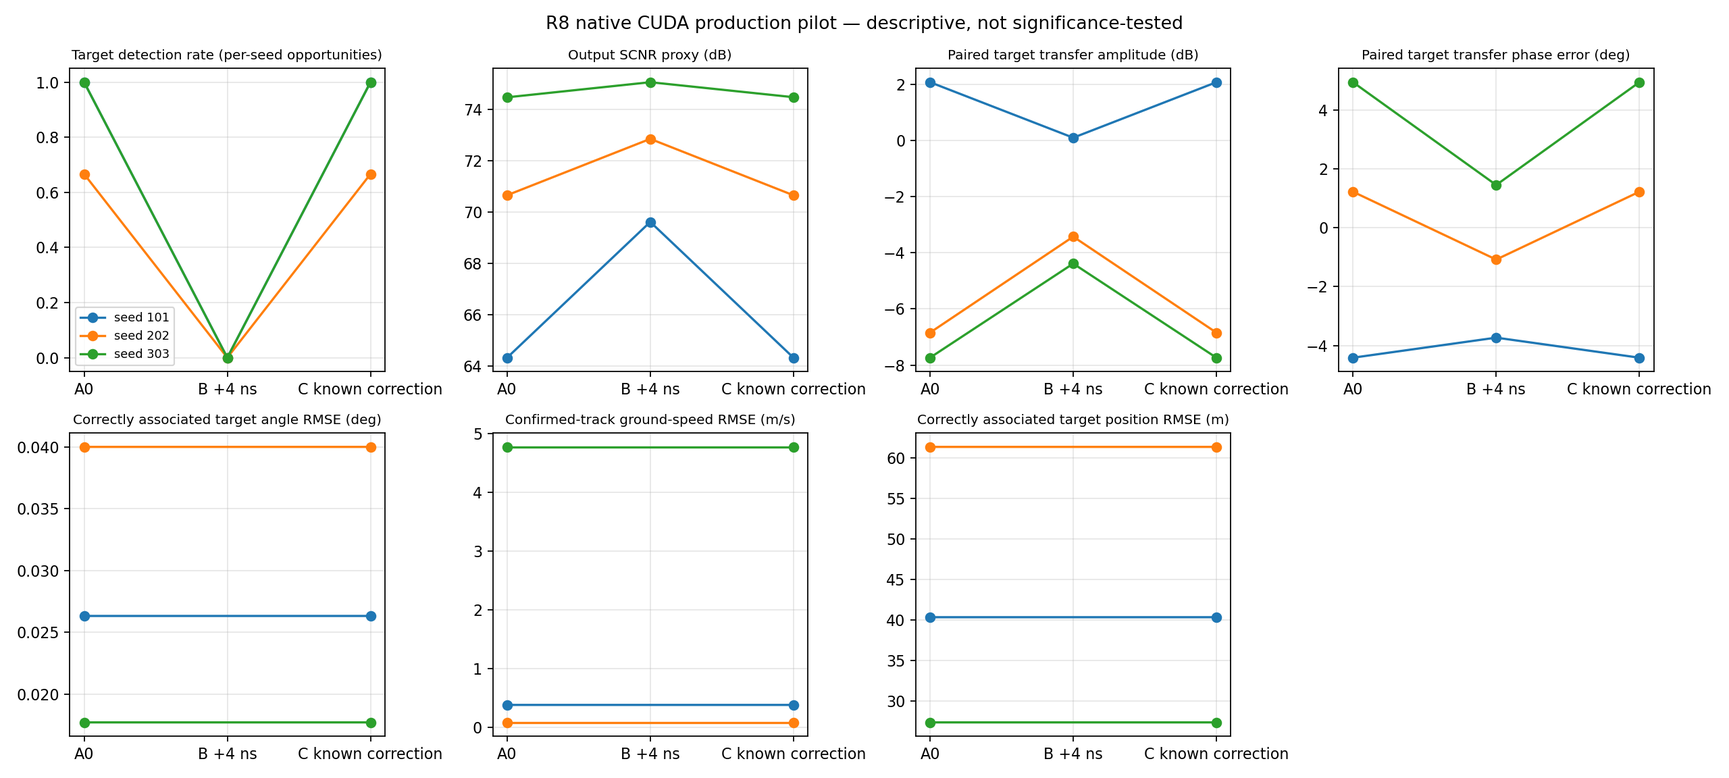
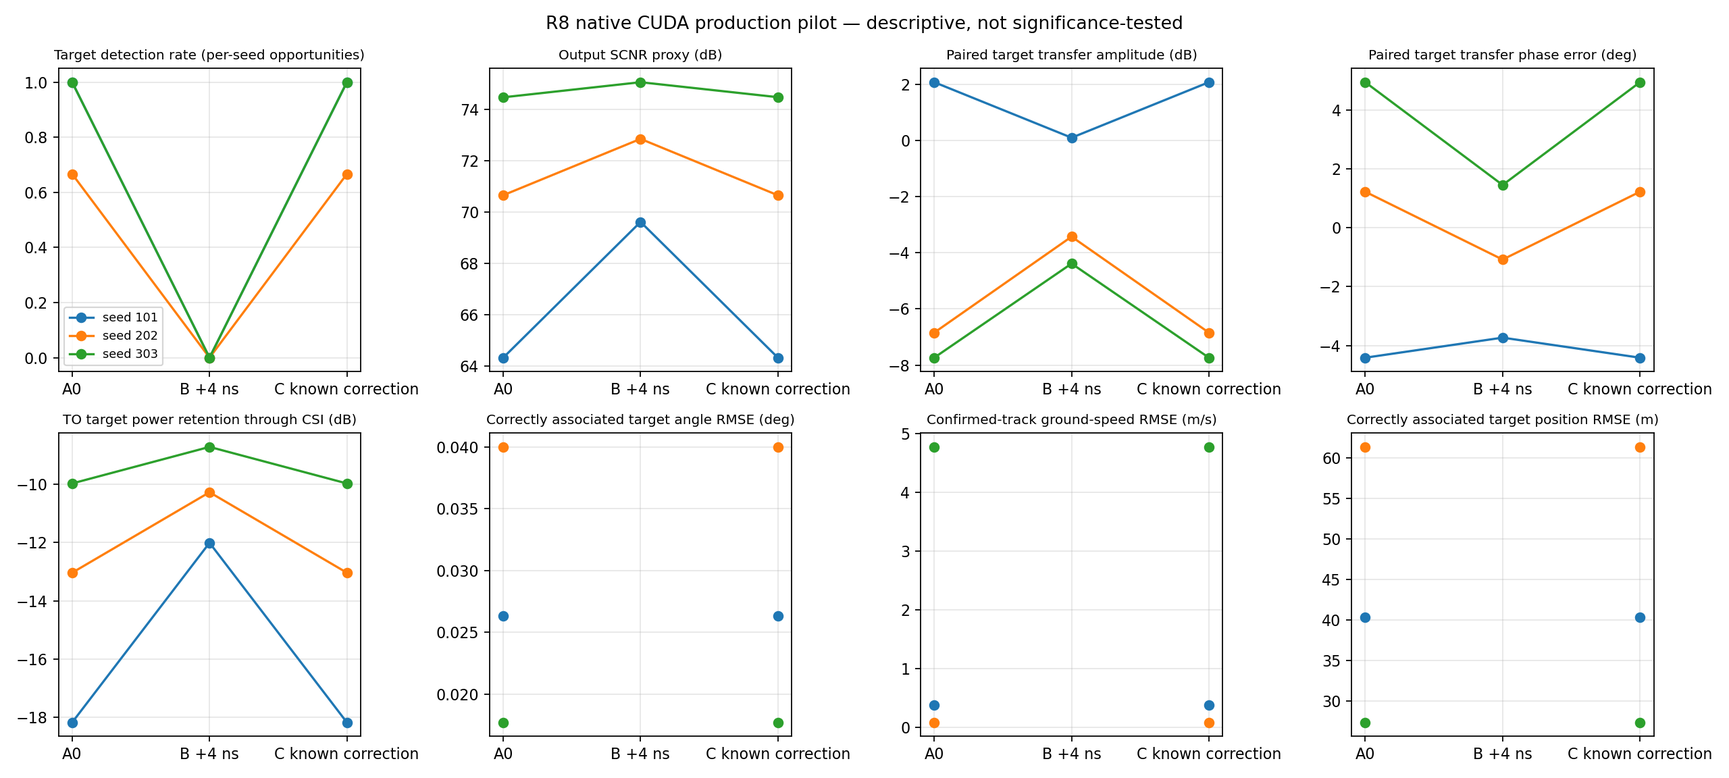
docs(research): tighten R8 evaluation evidence

diff --git a/scripts/phase_r/evaluate_r8_multiseed_causal_pilot.py b/scripts/phase_r/evaluate_r8_multiseed_causal_pilot.py
@@ -945,11 +945,20 @@ def _metrics_row(seed: int, label: str, csi: Mapping[str, Any], roles: Mapping[s
         "seed": seed, "condition": label,
         "csi_h0_cancellation_db": csi.get("csi_h0_active_support", {}).get("cancellation_db"),
         "output_scnr_proxy_db": transfer.get("output_scnr_proxy_db"),
+        "target_only_csi_retention_db": transfer.get("target_only_csi_retention_db"),
         "target_amplitude_ratio_db": coef.get("amplitude_ratio_db"),
         "target_phase_error_deg": coef.get("phase_error_deg"),
         "target_detections": on.get("unique_correct_detections"),
         "target_opportunities": on.get("truth_opportunities"),
         "target_detection_rate": on.get("detection_rate"),
+        "target_misses": on.get("misses"),
+        "on_final_detections": on.get("final_detections"),
+        "on_non_target_detections": on.get("false_associations"),
+        "correct_track_associations": on.get("correct_track_associations"),
+        "unassociated_confirmed_tracks": on.get("false_track_associations"),
+        "on_confirmed_tracks": on.get("confirmed_tracks"),
+        "cfar_branch_hit_cells_on": on.get("cfar_branch_hit_cells"),
+        "cfar_branch_hit_cells_off": off.get("cfar_branch_hit_cells"),
         "false_h0_clusters": off.get("false_clusters"),
         "false_h0_detections": off.get("false_detections"),
         "false_h0_confirmed_tracks": off.get("false_confirmed_tracks"),
@@ -981,6 +990,7 @@ def _write_comparison_figure(path: Path, rows: Sequence[Mapping[str, Any]]) -> N
         ("output_scnr_proxy_db", "Output SCNR proxy (dB)"),
         ("target_amplitude_ratio_db", "Paired target transfer amplitude (dB)"),
         ("target_phase_error_deg", "Paired target transfer phase error (deg)"),
+        ("target_only_csi_retention_db", "TO target power retention through CSI (dB)"),
         ("angle_rmse_deg", "Correctly associated target angle RMSE (deg)"),
         ("ground_speed_rmse_mps", "Confirmed-track ground-speed RMSE (m/s)"),
         ("position_rmse_m", "Correctly associated target position RMSE (m)"),
@@ -993,16 +1003,15 @@ def _write_comparison_figure(path: Path, rows: Sequence[Mapping[str, Any]]) -> N
                 for row in rows if int(row["seed"]) == seed
             }
             values = [by_condition.get(label) for label in ("A", "B", "C")]
-            xs, ys = [], []
-            for x, value in enumerate(values):
-                if value is not None and math.isfinite(float(value)):
-                    xs.append(x)
-                    ys.append(float(value))
+            xs = list(range(3))
+            ys = [
+                float(value) if value is not None and math.isfinite(float(value)) else math.nan
+                for value in values
+            ]
             axis.plot(xs, ys, marker="o", label=f"seed {seed}")
         axis.set_xticks([0, 1, 2], ["A0", "B +4 ns", "C known correction"])
         axis.set_title(title, fontsize=9)
         axis.grid(True, alpha=0.3)
-    axes.flat[7].set_visible(False)
     axes[0, 0].legend(fontsize=8)
     fig.suptitle("R8 native CUDA production pilot — descriptive, not significance-tested")
     fig.tight_layout()
@@ -1099,11 +1108,14 @@ def run_evaluation(
                     row["h0_union_valid_cut_count_total"] = sum(int(item["valid_cut_count"]) for item in union)
                 on_audit = _audit_manifests(next(path.resolve() for path in seed_roots if int(read_json(_seed_case_root(path.resolve()) / "case_manifest.json")["scene_identity"]["seed"]) == seed)).get((CONDITIONS[label], "ON"))
                 if on_audit:
-                    row["h1_unique_union_hit_cells_total"] = sum(int(item["unique_union_hit_cells"]) for item in _audit_union_rows(*on_audit))
+                    on_union = _audit_union_rows(*on_audit)
+                    row["h1_unique_union_hit_cells_total"] = sum(int(item["unique_union_hit_cells"]) for item in on_union)
+                    row["h1_union_valid_cut_count_total"] = sum(int(item["valid_cut_count"]) for item in on_union)
             else:
                 row["h0_unique_union_hit_cells_total"] = None
                 row["h0_union_valid_cut_count_total"] = None
                 row["h1_unique_union_hit_cells_total"] = None
+                row["h1_union_valid_cut_count_total"] = None
             metric_rows.append(row)
     write_csv(output_dir / "r8_seed_condition_metrics.csv", metric_rows)
     _write_comparison_figure(output_dir / "r8_seed_condition_comparison.png", metric_rows)
@@ -1159,6 +1171,9 @@ def run_evaluation(
             "PERFORMANCE_VERIFIED_reason": "three seeds are descriptive only; task changes are not declared statistically significant",
         },
     }
+    experiment_manifest_path = output_dir / "r8_experiment_manifest.json"
+    campaign["experiment_manifest"] = str(experiment_manifest_path.resolve())
+    write_json(output_dir / "r8_multiseed_causal_evaluation.json", campaign)
     experiment_manifest = _build_experiment_manifest(
         seed_roots=seed_roots,
         seed101_case_root=seed101_case_root,
@@ -1166,10 +1181,7 @@ def run_evaluation(
         output_dir=output_dir,
         campaign=campaign,
     )
-    experiment_manifest_path = output_dir / "r8_experiment_manifest.json"
     write_json(experiment_manifest_path, experiment_manifest)
-    campaign["experiment_manifest"] = str(experiment_manifest_path.resolve())
-    write_json(output_dir / "r8_multiseed_causal_evaluation.json", campaign)
     _normalize_csv_line_endings(output_dir)
     return campaign
 

diff --git a/tests/test_phase_r8_multiseed_evaluation.py b/tests/test_phase_r8_multiseed_evaluation.py
@@ -1,5 +1,7 @@
 import unittest
+import math
 from pathlib import Path
+from unittest.mock import patch
 
 import numpy as np
 
@@ -10,6 +12,7 @@ from scripts.phase_r.evaluate_r8_multiseed_causal_pilot import (
     _truth_path,
     _metrics_row,
     _normalize_csv_line_endings,
+    _write_comparison_figure,
     normalized_runtime_xml,
 )
 
@@ -27,6 +30,7 @@ class TargetNeighborhoodTests(unittest.TestCase):
 
     def test_metrics_row_records_f1_f2_input_power_for_each_role(self):
         csi = {
+            "target_transfer": {"target_only_csi_retention_db": -5.25},
             "input_fusion_power": {
                 "ON": {"F1_mean_power": 10.0, "F2_mean_power": 11.0},
                 "OFF": {"F1_mean_power": 7.0, "F2_mean_power": 8.0},
@@ -34,13 +38,60 @@ class TargetNeighborhoodTests(unittest.TestCase):
             }
         }
         roles = {
-            "ON": {"metrics": {"parameter_errors": {}}},
-            "OFF": {"metrics": {}},
+            "ON": {"metrics": {
+                "parameter_errors": {},
+                "misses": 2,
+                "false_associations": 4,
+                "correct_track_associations": 1,
+                "false_track_associations": 3,
+                "cfar_branch_hit_cells": 100,
+                "final_detections": 7,
+                "confirmed_tracks": 4,
+            }},
+            "OFF": {"metrics": {"cfar_branch_hit_cells": 50}},
         }
         result = _metrics_row(202, "A", csi, roles)
         self.assertEqual(result["input_f1_mean_power_on"], 10.0)
         self.assertEqual(result["input_f2_mean_power_off"], 8.0)
         self.assertEqual(result["input_f1_mean_power_to"], 2.0)
+        self.assertEqual(result["target_only_csi_retention_db"], -5.25)
+        self.assertEqual(result["target_misses"], 2)
+        self.assertEqual(result["on_non_target_detections"], 4)
+        self.assertEqual(result["correct_track_associations"], 1)
+        self.assertEqual(result["unassociated_confirmed_tracks"], 3)
+        self.assertEqual(result["cfar_branch_hit_cells_on"], 100)
+        self.assertEqual(result["cfar_branch_hit_cells_off"], 50)
+        self.assertEqual(result["on_final_detections"], 7)
+        self.assertEqual(result["on_confirmed_tracks"], 4)
+
+    def test_comparison_figure_keeps_unavailable_condition_as_gap(self):
+        import matplotlib.pyplot  # noqa: F401
+        import tempfile
+        from matplotlib.axes import Axes
+
+        rows = [
+            {"seed": 202, "condition": "A", "angle_rmse_deg": 1.0},
+            {"seed": 202, "condition": "B", "angle_rmse_deg": None},
+            {"seed": 202, "condition": "C", "angle_rmse_deg": 3.0},
+        ]
+        original_plot = Axes.plot
+        plot_calls = []
+
+        def capture_plot(axis, *args, **kwargs):
+            plot_calls.append((args, kwargs))
+            return original_plot(axis, *args, **kwargs)
+
+        with tempfile.TemporaryDirectory() as temp_dir:
+            with patch("matplotlib.axes.Axes.plot", new=capture_plot):
+                _write_comparison_figure(Path(temp_dir) / "unused.png", rows)
+        angle_series = [
+            args[1]
+            for args, _kwargs in plot_calls
+            if len(args) > 1 and len(args[1]) == 3
+            and args[1][0] == 1.0 and args[1][2] == 3.0
+        ]
+        self.assertTrue(angle_series)
+        self.assertTrue(math.isnan(angle_series[0][1]))
 
     def test_runtime_xml_comparison_ignores_only_run_output_paths(self):
         base = "<root><result_add>/run/A/result</result_add><threshold>13.4</threshold><track_debug_dir>/run/A/track</track_debug_dir></root>"

diff --git a/docs/research/phase_r/R8_research_direction_decision.md b/docs/research/phase_r/R8_research_direction_decision.md
@@ -1,36 +1,52 @@
 # R8 阶段研究方向裁决
 
 日期：2026-10-23
-裁决级别：三 seed 描述性 CUDA 因果可行性证据；不是总体性能或统计显著性结论。
 
-## 对研究问题的回答
+裁决依据：seed101/202/303 的 A0/B/C 配对任务结果、seed202/303 本机 CUDA Production 与 CFAR 审计、Known Correction 物理闭合。三个 seed 支持受控场景内的重复性判断；不构成总体统计显著性结论。
 
-### 1. 未知通道时延是否降低 GMTI 任务表现？
+## Q1–Q7 裁决
 
-在本次固定仿真场景、通道 2 注入 `+4 ns`、真实连续面积地杂波存在的条件下，结果支持“是”：A0/B/C 三 seed 门内正确目标 detection 分别为 `8/9、0/9、8/9`。B 三 seed 均为 `0/3`，而 A0 与 C 各 seed 为 `3/3、2/3、3/3`。这说明所测误差可导致该 Production 任务链无法把目标关联进冻结门；不应外推成任意机载时延都造成同等下降。
+### Q1：修复 GO-CFAR 后，+4 ns 失配是否在不同 seed 上持续造成正确目标检出损失？
 
-### 2. 已知物理校正恢复多少？
+**是，在本次固定仿真配置和冻结关联门内三个 seed 都观察到损失。** A0/B/C 正确 detection 机会分别为 `8/9、0/9、8/9`；每个 seed 的 B 都是 `0/3`，A0/C 分别为 `3/3、2/3、3/3`。seed202 的 A0 自身有一个漏检，说明场景/目标候选也会影响绝对检出率。此结论只适用于本次通道2 `+4 ns` 条件，不外推为任意 airborne 时延分布的普遍效果。
 
-Known Correction 将观察到的 A0−B 检出计数差 `8` 全部恢复，C 达到 A0 的 `8/9` 总计数。confirmed current track matched 计数也由 B 的 `0/9` 回到 A0/C 各 `7/9`。三个 seed、ON/OFF/TO 的 A0/C 融合输入复 RMS 最大约 `9.56e-5`，优于冻结 `1e-3` 闭合限。该恢复量只对当前注入、场景、目标及冻结生产门成立。
+### Q2：已知物理逆校正是否持续恢复检测与参数估计？
 
-### 3. 传统盲估计离已知校正还有多远？
+**检测计数恢复到 A0 水平。** C 比 B 多 8 个正确 detection，补回本次全部 `8` 个 A0−B 计数差；A0 与 C 各为 `8/9`。正确 confirmed-track 关联也由 B 的 `0/9` 回到 A0/C 各 `5/9`（seed101/202/303 为 `2/3、1/3、2/3`）。正确关联目标上的角度、位置和地速误差在 A0/C 闭合；B 没有正确 detection，参数 RMSE 为 `NOT_EVALUABLE`。三 seed 的 F1/F2 最大相对复 RMS 约 `9.56e-5`，低于冻结 `1e-3` 闭合门。
 
-本阶段没有合格盲估计器，D 条件为 `NOT_AVAILABLE`；未运行，也没有盲估计误差、恢复率或与 Known Correction 的差距数据。不能把 Known Correction 的结果冒充盲估计能力。
+### Q3：主要可观测损失发生在哪一层？
 
-### 4. 是否继续未知物理状态估计？是否需要 AI？
+证据显示损失不是“目标在 CSI/CFAR 前完全消失”：B 在 seed202/303 的目标 5×5 邻域仍分别有 `41/44` 个 CFAR hit，但三个 period 的最近候选 Doppler 偏差均在冻结 ±2-bin 门外。目标关联失败出现在候选形成/选择至 detection 的阶段；TrackManager 因没有门内目标 detection 而没有正确目标航迹关联。CSI 层也有变化：B 的 H0 cancellation 比 A0 低约 `0.44–0.49 dB`，输入融合 F2 功率降低约 `0.22–0.25 dB`。因此 CSI/CFAR 输入变化与门外候选同时存在；当前证据不能将唯一根因拆分到某个内部算子。
 
-建议继续验证**确定性的未知时延/通道状态估计**：B 的任务损失在三个 seed 重复出现，C 在相同输入误差下闭合并恢复观察到的检出缺口。这证明“估计并校正未知状态”值得下一步检验，但还没证明任何盲方法能做到。
+### Q4：损失是稳定物理后果，还是高度依赖场景与关联？
 
-当前没有 AI 必要性证据：没有盲估计基线与残差、跨场景恢复能力或显式物理估计失败证据。因此不训练 AI、不启用 Router。下一项若获批准，应先实现/审查一个 target-free 的确定性时延估计，再以盲条件 D 对照 A/B/C；估计器不得读取真实时延、目标真值、配对无误差参考或其他 oracle 信息。
+**损失方向在三个独立 seed 上一致，损失大小和候选位置仍依赖场景。** B 的正确 detection 均为 `0/3`，但门外 Doppler 偏移 seed202 为 `[-6,+24,+25]`、seed303 为 `[-6,+23,+29]` bins；A0 自身在 seed202 也有一个 period 未过冻结门。故可称为本实验设置下的重复因果效应，不能称作与场景无关的固定偏移或通用概率结论。
 
-### 5. 是否转向低速目标保护或复杂杂波建模？
+### Q5：是否已确定双通道 GMTI 的最大可恢复性能瓶颈？
 
-现在不足以改变主线。面积杂波门确实有效，但只有一种场景配置；本实验没有速度 sweep、低速目标分层，也没有统计 Pfa 闭合。B 的目标邻域有 CFAR hits，但最近检测 Doppler 偏差落在 ±2-bin 门外，提示后续可检查候选保护与关联敏感性。该信号尚不能证明低速保护或复杂杂波建模是首要瓶颈。
+**没有。** R8 只测一种时延误差、一个目标/速度配置和一种连续面积杂波设置；未比较其他失配、低速 sweep 或统计校准 Pfa。结果证明未知时延是当前受控场景中的可恢复性能贡献因素，不足以认定它是系统最大瓶颈。
 
-## 阶段门结论
+### Q6：是否具备进入传统盲时延估计器 D3 多 seed 验证的条件？
 
-- `IMPLEMENTED=true`，`EXECUTED=true`，`EVALUABLE=true`，`PERFORMANCE_VERIFIED=false`。
-- 有效面积地杂波：每个新 seed 390 packets、1,952,655 samples；输入历史身份 27/27 匹配；ON/OFF/TO 处理链、CFAR 几何/数值、物理闭合门通过。
-- **本阶段在此停止。** 建议下一阶段先定义 blind deterministic delay estimator 的可观测量、允许输入/禁止信息、失败判据及 evaluator，再决定是否实现和执行；不自动启动后续实验或训练。
+**具备进入 D3 方案与代码审查的科学依据，尚无可执行的合格 D3 估计器。** B/C 的重复损失/恢复满足继续研究 target-free 确定性时延估计的前置动机；本阶段 D 条件为 `NOT_AVAILABLE`，未运行，因此 D 与 Known Correction 的差距未知。下一阶段需先定义允许观测、真值隔离、失败判据并审查估计器，再安排盲验证。
 
-详见：[检出结果](R8_detection_causal_results.md)、[差异级分析](R8_mechanism_analysis.md)、[CUDA 执行记录](R8_native_cuda_execution.md)、[机器 manifest](evidence/r8_unknown_delay_multiseed_20261023/evaluation/r8_experiment_manifest.json)。
+### Q7：是否存在充分证据证明 AI 必要？
+
+**`AI_NOT_JUSTIFIED`。** 当前没有盲估计误差、确定性估计残差或跨场景失败证据。Known Correction 是注入真值的 evaluator-only 上限，不能证明 AI 必要，也不能替代盲估计结果。
+
+## 三条候选主线的证据与优先级
+
+| 方向 | 当前证据等级 | 研究价值与局限 | 优先级 |
+|---|---|---|---:|
+| C：未知系统物理失配 | 中等、受控因果重复 | 三个 seed 的 +4 ns 任务损失方向一致，Known Correction 恢复计数且输入闭合；尚缺盲估计器、其他误差参数和真实 airborne 分布。 | **1**：先做 target-free 确定性时延估计的可观测性与代码审查，再设计 D3 多 seed 验证。 |
+| B：复杂杂波与检测统计 | 初步线索 | H0 仍有候选，B 的 H0 unique union hits 增加；没有统计 Pfa 校准、杂波模型 sweep 或检测阈值敏感性因果试验。 | **2**：作为后续竞争瓶颈审查，不据本轮宣称 Pfa 变化。 |
+| A：低速目标保护 | R8 未检验 | 单一 6.7 m/s 配置不是低速 sweep，也没有低速分层目标保护对照。 | **3**：本证据不足以把主线转到低速目标保护。 |
+
+## 阶段结论与停止
+
+- `IMPLEMENTED=true`、`EXECUTED=true`、`EVALUABLE=true`、`PERFORMANCE_VERIFIED=false`。
+- R8 支持继续研究未知物理时延的确定性盲估计；D3 尚未实现/执行，性能差距 `NOT_AVAILABLE`。
+- 当前没有 AI 必要性证据；不训练 AI、不开发 Router、不扩展六参数联合估计。
+- **本阶段到此停止。** 仅建议下一阶段先完成 blind estimator 的观测边界与代码审查；不自动运行 D3 或启动 R9。
+
+详见：[检出与任务级明细](R8_detection_causal_results.md)、[差异级分析](R8_mechanism_analysis.md)、[CUDA 执行记录](R8_native_cuda_execution.md)、[机器 manifest](evidence/r8_unknown_delay_multiseed_20261023/evaluation/r8_experiment_manifest.json)。

diff --git a/docs/research/phase_r/R8_detection_causal_results.md b/docs/research/phase_r/R8_detection_causal_results.md
@@ -15,6 +15,20 @@
 
 对这组仿真目标和固定 `+4 ns` 注入，未知误差条件 B 在三个 seed 均未产生门内正确目标 detection；Known Correction C 将观察到的 8 个 A0−B 检出机会缺口全部恢复到 A0 的计数。此结果是可行性与因果方向证据，不是统计显著的 Pd 改善。
 
+| Seed | 条件 | 正确目标 detection / 机会 | 漏检 | ON 非目标/未匹配 detections | 正确 confirmed-track 关联 | 未关联的 confirmed tracks |
+|---:|---|---:|---:|---:|---:|---:|
+| 101 | A0 | 3/3 | 0 | 172 | 2 | 27 |
+| 101 | B | 0/3 | 3 | 161 | 0 | 42 |
+| 101 | C | 3/3 | 0 | 172 | 2 | 27 |
+| 202 | A0 | 2/3 | 1 | 181 | 1 | 30 |
+| 202 | B | 0/3 | 3 | 189 | 0 | 52 |
+| 202 | C | 2/3 | 1 | 181 | 1 | 30 |
+| 303 | A0 | 3/3 | 0 | 244 | 2 | 71 |
+| 303 | B | 0/3 | 3 | 226 | 0 | 84 |
+| 303 | C | 3/3 | 0 | 244 | 2 | 70 |
+
+“非目标/未匹配 detection”是 Production 最终 detection 中未与可见真值按冻结一对一门匹配的记录数；“未关联 confirmed tracks”是当周期确认且有匹配 detection、但未关联到正确目标 detection 的航迹数。两者都是场景计数，不是 Pfa。OFF/H0 的 false cluster/detection 与 false confirmed track 另见下表。
+
 ![R8 每 seed 指标对比](evidence/r8_unknown_delay_multiseed_20261023/evaluation/r8_seed_condition_comparison.png)
 
 ## CSI 与目标保持指标
@@ -25,16 +39,19 @@
 |  | Output SCNR proxy (dB) | 64.331 | 69.614 | 64.331 |
 |  | 配对目标复传递幅度 (dB) | 2.081 | 0.102 | 2.081 |
 |  | 配对目标复传递相位误差 (deg) | -4.416 | -3.734 | -4.416 |
+|  | TO 目标功率经 CSI 保持 (dB) | -18.176 | -12.010 | -18.176 |
 | 202 | H0 CSI cancellation (dB) | 5.818 | 5.329 | 5.818 |
 |  | Output SCNR proxy (dB) | 70.652 | 72.845 | 70.651 |
 |  | 配对目标复传递幅度 (dB) | -6.845 | -3.424 | -6.846 |
 |  | 配对目标复传递相位误差 (deg) | 1.228 | -1.078 | 1.229 |
+|  | TO 目标功率经 CSI 保持 (dB) | -13.037 | -10.274 | -13.037 |
 | 303 | H0 CSI cancellation (dB) | 5.436 | 4.994 | 5.437 |
 |  | Output SCNR proxy (dB) | 74.462 | 75.050 | 74.467 |
 |  | 配对目标复传递幅度 (dB) | -7.737 | -4.384 | -7.739 |
 |  | 配对目标复传递相位误差 (deg) | 4.954 | 1.458 | 4.955 |
+|  | TO 目标功率经 CSI 保持 (dB) | -9.972 | -8.717 | -9.972 |
 
-SCNR proxy 定义为 truth-centered TO 目标 ROI 功率除以配对 OFF 的同 ROI H0 功率。配对目标复传递量由 CSI(TO) ROI 与 CSI(ON)−CSI(OFF) 得出，属于诊断量，不等价于独立物理目标增益。它们不应单独替代 detection/track 任务结果。
+SCNR proxy 定义为 truth-centered TO 目标 ROI 功率除以配对 OFF 的同 ROI H0 功率。TO 目标功率保持量为 CSI 输出功率相对 CSI 前等化目标功率的 dB 比值。配对目标复传递量由 CSI(TO) ROI 与 CSI(ON)−CSI(OFF) 得出，属于诊断量，不等价于独立物理目标增益。它们不应单独替代 detection/track 任务结果。
 
 ## 参数估计与 H0 描述计数
 
@@ -55,6 +72,17 @@ SCNR proxy 定义为 truth-centered TO 目标 ROI 功率除以配对 OFF 的同 
 这些 H0 计数是本次场景中的描述性候选数，不是统计 Pfa。
 
 新增 seed 的三期 H0 unique union hit cells（每条件 1,581,840 valid CUT）为：seed202 A/B/C=`432/472/432`；seed303=`396/428/396`。seed101 的 R7 exact union maps 未保存，因此该项为 `NOT_EVALUABLE`。H1 union hits 和逐期任务证据见 [条件 CSV](evidence/r8_unknown_delay_multiseed_20261023/evaluation/r8_seed_condition_metrics.csv)、[任务与 lineage 目录](evidence/r8_unknown_delay_multiseed_20261023/evaluation/)。
+
+| Seed | 条件 | ON 两分支 hit cells 合计 | ON unique union hits | OFF 两分支 hit cells 合计 | OFF unique union hits | 每角色 valid CUT（3 periods） |
+|---:|---|---:|---:|---:|---:|---:|
+| 202 | A0 | 2,501 | 1,509 | 705 | 432 | 1,581,840 |
+| 202 | B | 3,790 | 2,461 | 708 | 472 | 1,581,840 |
+| 202 | C | 2,500 | 1,508 | 705 | 432 | 1,581,840 |
+| 303 | A0 | 3,330 | 1,874 | 653 | 396 | 1,581,840 |
+| 303 | B | 5,018 | 3,125 | 660 | 428 | 1,581,840 |
+| 303 | C | 3,331 | 1,874 | 653 | 396 | 1,581,840 |
+
+两分支 hit-cell 合计会重复计入两个 branch 同时命中的 CUT；union 列才是去重计数。CUT 命中数与 configured `Pfa=1e-6` 不是统计 Pfa 估计。
 
 ## 限制
 

diff --git a/docs/research/phase_r/R8_native_cuda_execution.md b/docs/research/phase_r/R8_native_cuda_execution.md
@@ -19,6 +19,7 @@
 - 仓库基线提交：`c5200b2f280f01f5e2e46f3a6fe5983a936a633f`；运行 manifest 记录运行前后源码身份与工作树状态。
[3 lines of base64/hex data omitted]
 - 本机 Native CUDA，NVIDIA GeForce RTX 3050 Laptop GPU；构建缓存 `CMAKE_BUILD_TYPE=Release`、`USE_COREX=OFF`。运行前后原始 GPU 状态快照保存在 manifest。
 - CUDA Production 全部使用同一修复版二进制；每个 seed 9 个分支门均通过。运行时 XML 在每个条件内 ON/OFF/TO 归一化后相同，只忽略逐运行输出目录字段 `result_add` 与 `track_debug_dir`。
 

diff --git a/docs/research/phase_r/evidence/r8_unknown_delay_multiseed_20261023/README.md b/docs/research/phase_r/evidence/r8_unknown_delay_multiseed_20261023/README.md
@@ -6,7 +6,7 @@
 
 - `evaluation/r8_experiment_manifest.json`：源码/二进制/Stage2 身份、GPU 与磁盘快照、分支 XML/log/CSI/CFAR/lineage 路径、失败现场和历史输入摘要。
 - `evaluation/r8_multiseed_causal_evaluation.json`：三 seed 的结构化条件结果、逐期任务关联、四个阶段状态标签和统计限制。
-- `evaluation/r8_seed_condition_metrics.csv`：每 seed×A/B/C 条件的 CSI、目标、参数误差、H0 描述计数、H0/H1 union hits 与 F1/F2 输入融合功率；seed101 原始 Stage2 IQ 已清理，功率列为 `NOT_EVALUABLE`，新 seed202/303 可重算。
+- `evaluation/r8_seed_condition_metrics.csv`：每 seed×A/B/C 条件的 CSI、目标机会/漏检、非目标 detections、confirmed-track 关联、CFAR branch hits、H0/H1 union hits、目标功率保持、参数误差和 F1/F2 输入融合功率；seed101 原始 Stage2 IQ 已清理，输入功率列为 `NOT_EVALUABLE`，新 seed202/303 可重算。
 - `evaluation/target_neighborhood_cfar.csv`：seed202/303 每条件、ON/OFF、每期目标邻域 hit、最近候选偏移、冻结门匹配与阶段归因。
 - `evaluation/r8_seed_condition_comparison.png`：目标检出率、SCNR proxy、目标复传递幅相与正确关联目标参数误差图。
 - `evaluation/seed*/`：每角色 task metrics、关联/lineage CSV、CSI transfer 和历史输入 SHA 对照。
